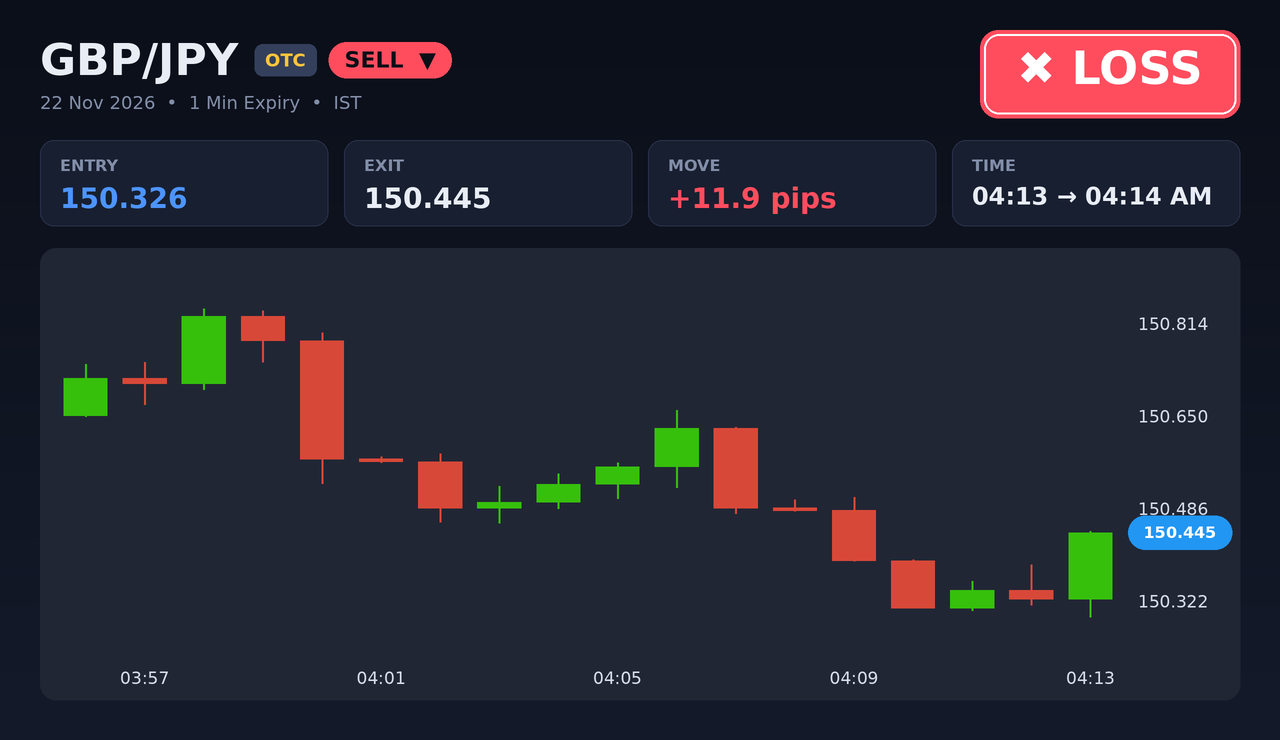
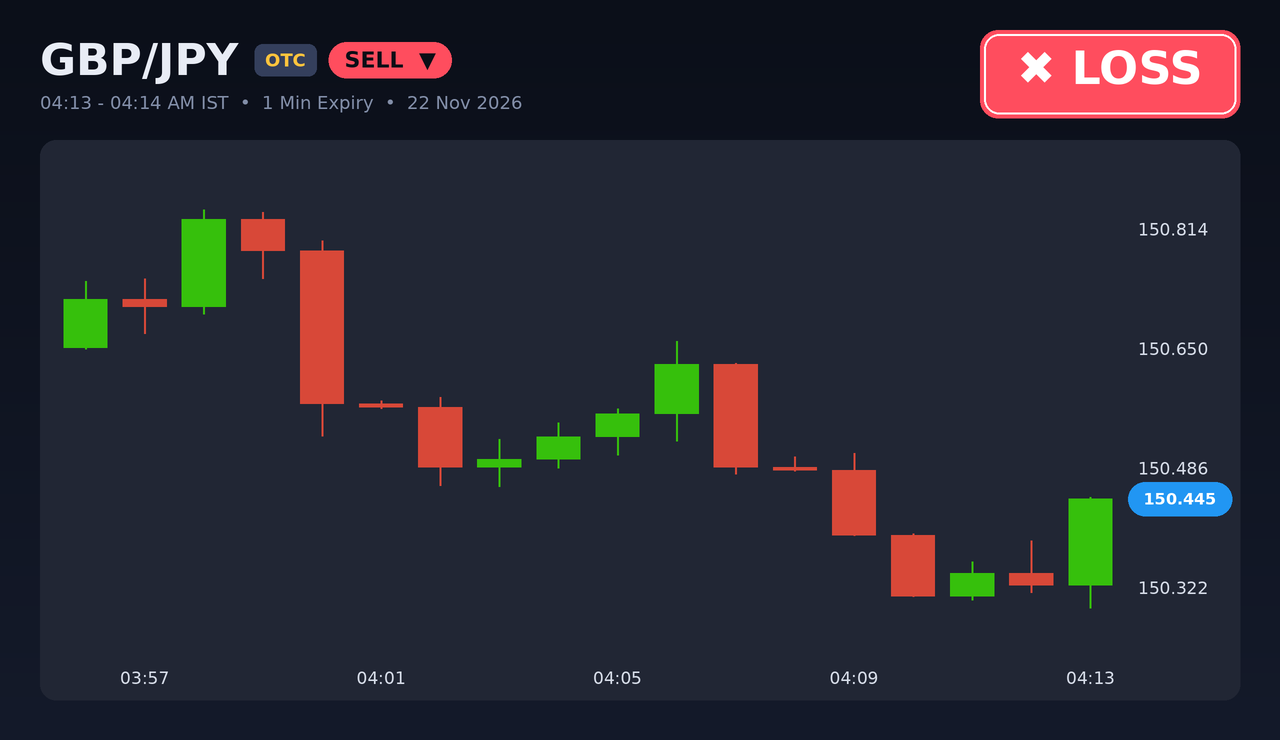
Result card without entry/exit cards; time in subtitle; bigger chart
Claude-Session: https://claude.ai/code/session_017ptHxXU1jqpg71v1AAAYG2

diff --git a/chart.py b/chart.py
@@ -89,7 +89,7 @@ def trade_chart(pair, direction, df, start_ms, entry, exit_price, result, expiry
     bw = dr.textlength(lbl, font=_font(22, True)) / S + 32
     dr.rounded_rectangle([s(x0), s(42), s(x0 + bw), s(78)], radius=s(18), fill=side_col)
     dr.text((s(x0 + bw / 2), s(60)), lbl, fill=(10, 14, 22), font=_font(22, True), anchor="mm")
-    dr.text((s(40), s(92)), f"{st:%d %b %Y}  •  {expiry_min} Min Expiry  •  IST",
+    dr.text((s(40), s(92)), f"{st:%I:%M} - {en:%I:%M %p} IST  •  {expiry_min} Min Expiry  •  {st:%d %b %Y}",
             fill=MUTED, font=_font(18))
 
     # result badge (top right)
@@ -102,27 +102,11 @@ def trade_chart(pair, direction, df, start_ms, entry, exit_price, result, expiry
     dr.text((s((rx0 + rx1) / 2), s(68)), f"{sym} {word}", fill=(255, 255, 255),
             font=_font(46, True), anchor="mm")
 
-    # ---------- info cards ----------
-    move = (exit_price - entry) / _pip(pair)
-    cards = [("ENTRY", fmt(entry), BLUE), ("EXIT", fmt(exit_price), TEXT),
-             ("MOVE", f"{move:+.1f} pips", res_col),
-             ("TIME", f"{st:%I:%M} → {en:%I:%M %p}", TEXT)]
-    cx, cy, cw, ch, gap = 40, 140, (W - 80 - 3 * 16) / 4, 86, 16
-    for i, (k, v, col) in enumerate(cards):
-        x = cx + i * (cw + gap)
-        dr.rounded_rectangle([s(x), s(cy), s(x + cw), s(cy + ch)], radius=s(14), fill=PANEL,
-                             outline=PANEL_EDGE, width=s(1))
-        dr.text((s(x + 20), s(cy + 16)), k, fill=MUTED, font=_font(16, True))
-        fs = 28
-        while fs > 16 and dr.textlength(v, font=_font(fs, True)) / S > cw - 36:
-            fs -= 2
-        dr.text((s(x + 20), s(cy + 42)), v, fill=col, font=_font(fs, True))
-
     # ---------- chart panel: clean candles only (broker-app style), nothing drawn on top ----------
     CUP, CDN = (54, 192, 12), (216, 72, 56)       # bright green / red like the trading app
     CHART_BG = (33, 38, 52)
     d = d.tail(18).reset_index(drop=True)          # fewer candles -> bigger, clearer candles
-    px0, py0, px1, py1 = 40, 248, W - 40, H - 40
+    px0, py0, px1, py1 = 40, 140, W - 40, H - 40
     dr.rounded_rectangle([s(px0), s(py0), s(px1), s(py1)], radius=s(16), fill=CHART_BG)
     L, R, T, B = px0 + 16, px1 - 120, py0 + 30, py1 - 52
     lo, hi = d["low"].min(), d["high"].max()
